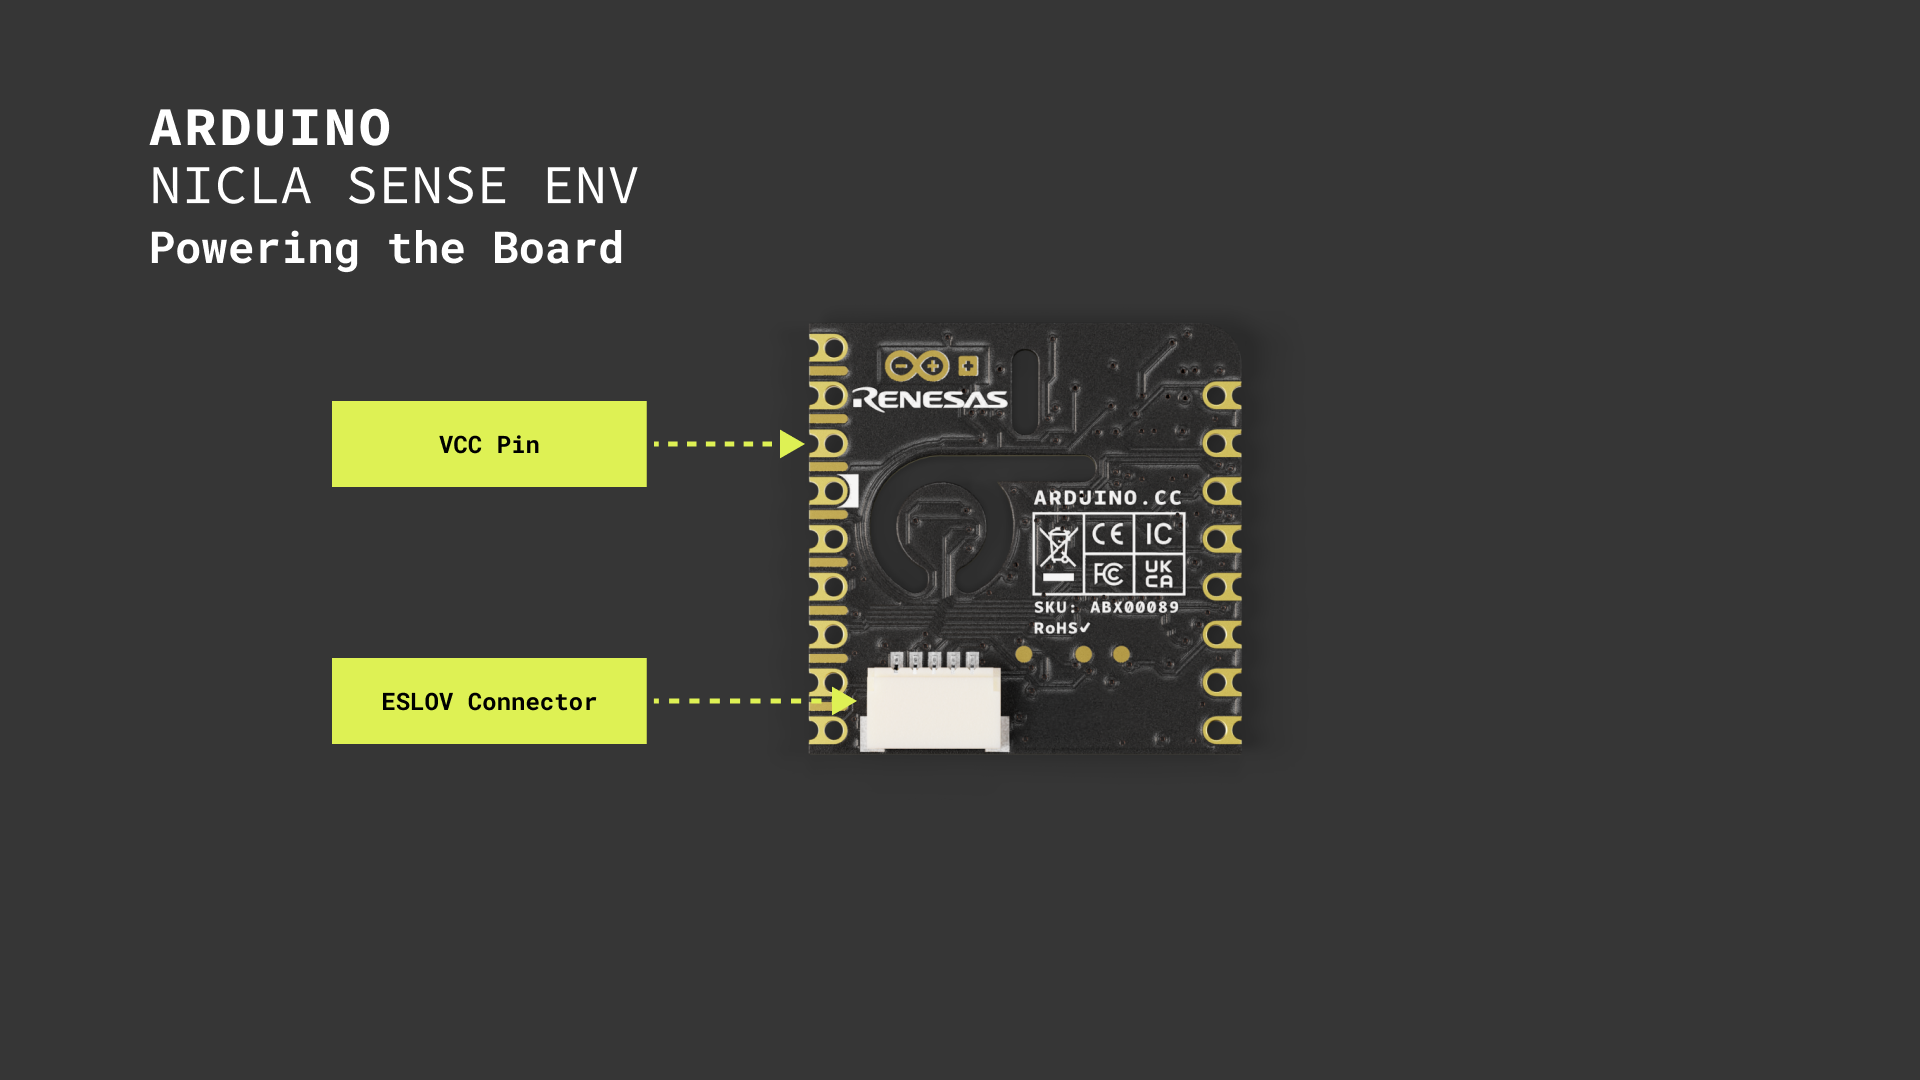
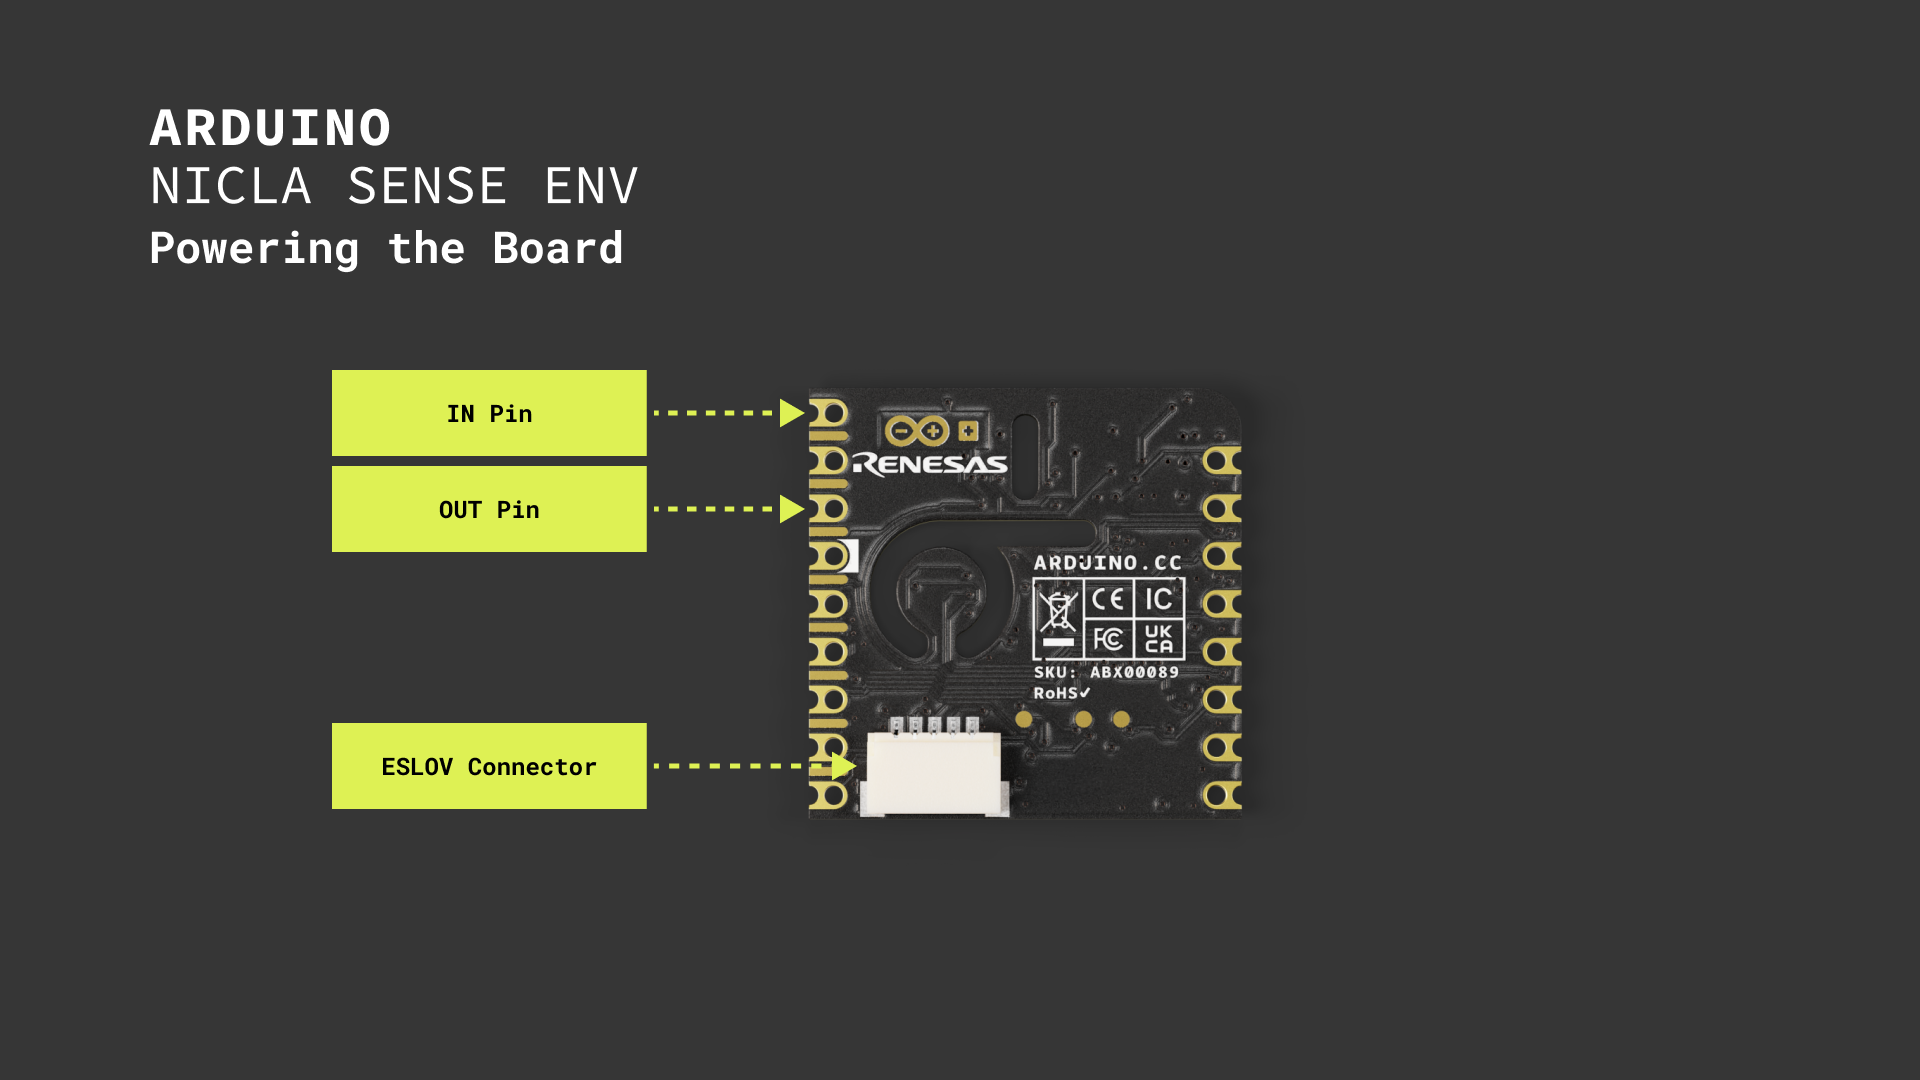
Content update (power-related documentation)

Changed region(s): [[0.4062, 0.3056, 0.6562, 0.7639], [0.1562, 0.3361, 0.3438, 0.5194], [0.1562, 0.6111, 0.3438, 0.7639]]

diff --git a/content/hardware/06.nicla/boards/nicla-sense-env/tutorials/01.user-manual/content.md b/content/hardware/06.nicla/boards/nicla-sense-env/tutorials/01.user-manual/content.md
@@ -139,12 +139,25 @@ As shown in the image above, the use of a dedicated level translator between the
 
 The Nicla Sense Env can be powered by:
 
-- Using the onboard **ESLOV connector**, which has a dedicated +5 VDC power line regulated onboard to +3.3 VDC.
-- Using an **external +3.3 VDC power supply** connected to the `VCC` pin (please refer to the [board pinout section](#pinout) of the user manual).
+- Via **ESLOV connector**: Using the onboard ESLOV connector, which provides a dedicated +5 VDC power line. This voltage is internally regulated to +3.3 VDC by the onboard voltage regulator.
+- Via **`IN` pin**: Using an external +2.3 to +6.5 VDC power supply connected to the `IN` pin (pin 9). This method uses the same internal regulation circuit as the ESLOV connector.
+- Via **`OUT` pin**: Using an external regulated +3.3 VDC power supply connected to the `OUT` pin (pin 7). **This method bypasses the onboard voltage regulator**.
 
 ![Different ways to power the Nicla Sense Env](assets/user-manual-5.png)
 
-***The Nicla Sense Env's `VCC` pin can be connected only to a +3.3 VDC power supply; any other voltage will permanently damage the board. Furthermore, the `VCC` pin does not have reverse polarity protection. Double-check your connections to avoid damaging the board.***
+The board's power architecture includes a voltage regulator (ISL9008A) that converts the input voltage to +3.3 VDC for the internal circuitry. When powering via ESLOV or the `IN` pin, the onboard regulator handles this conversion automatically and can supply up to 150 mA of current through the `OUT` pin.
+
+#### Power Pins Reference
+
+The following table summarizes the power-related pins on the Nicla Sense Env board:
+
+| **Pin** | **Name** |    **Voltage**   |                     **Description**                     |
+|:-------:|:--------:|:----------------:|:-------------------------------------------------------:|
+|    9    |   `IN`   | +2.3 to +6.5 VDC |  Power input connected to the onboard voltage regulator |
+|    7    |   `OUT`  |     +3.3 VDC     | Regulated +3.3 VDC output/External +3.3 VDC power input |
+|    6    |   `GND`  |       0 VDC      |                     Ground reference                    |
+
+***__Important note:__ Do not exceed the voltage limits specified for each power pin: +2.3 to +6.5 VDC for the `IN` pin and +3.3 VDC for the `OUT` pin. Voltages outside these ranges will permanently damage the board. Neither pin has reverse polarity protection; always verify all connections before applying power.***
 
 In this user manual, we will use the board's ESLOV connector to power it.
 
